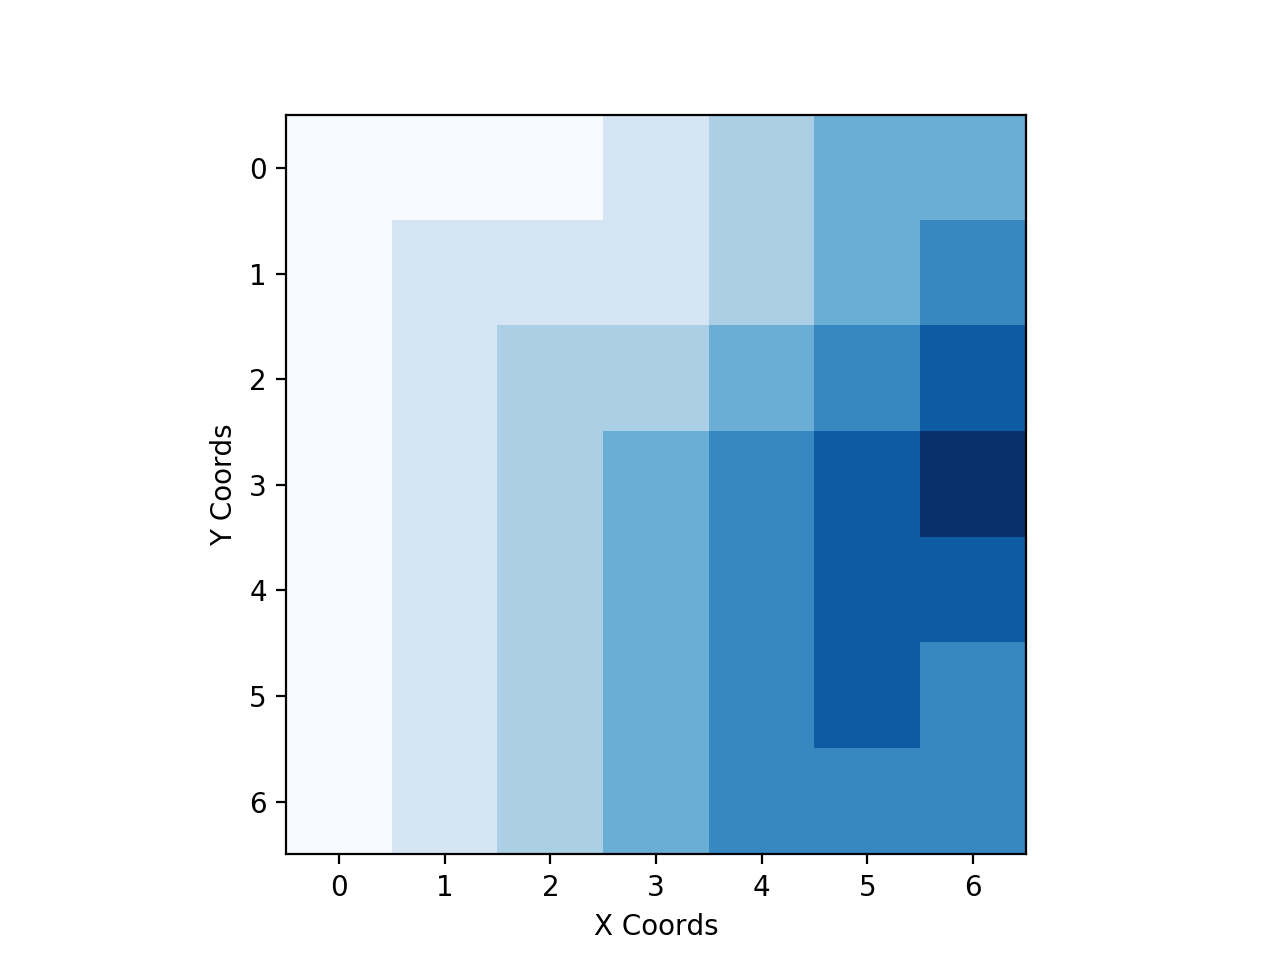
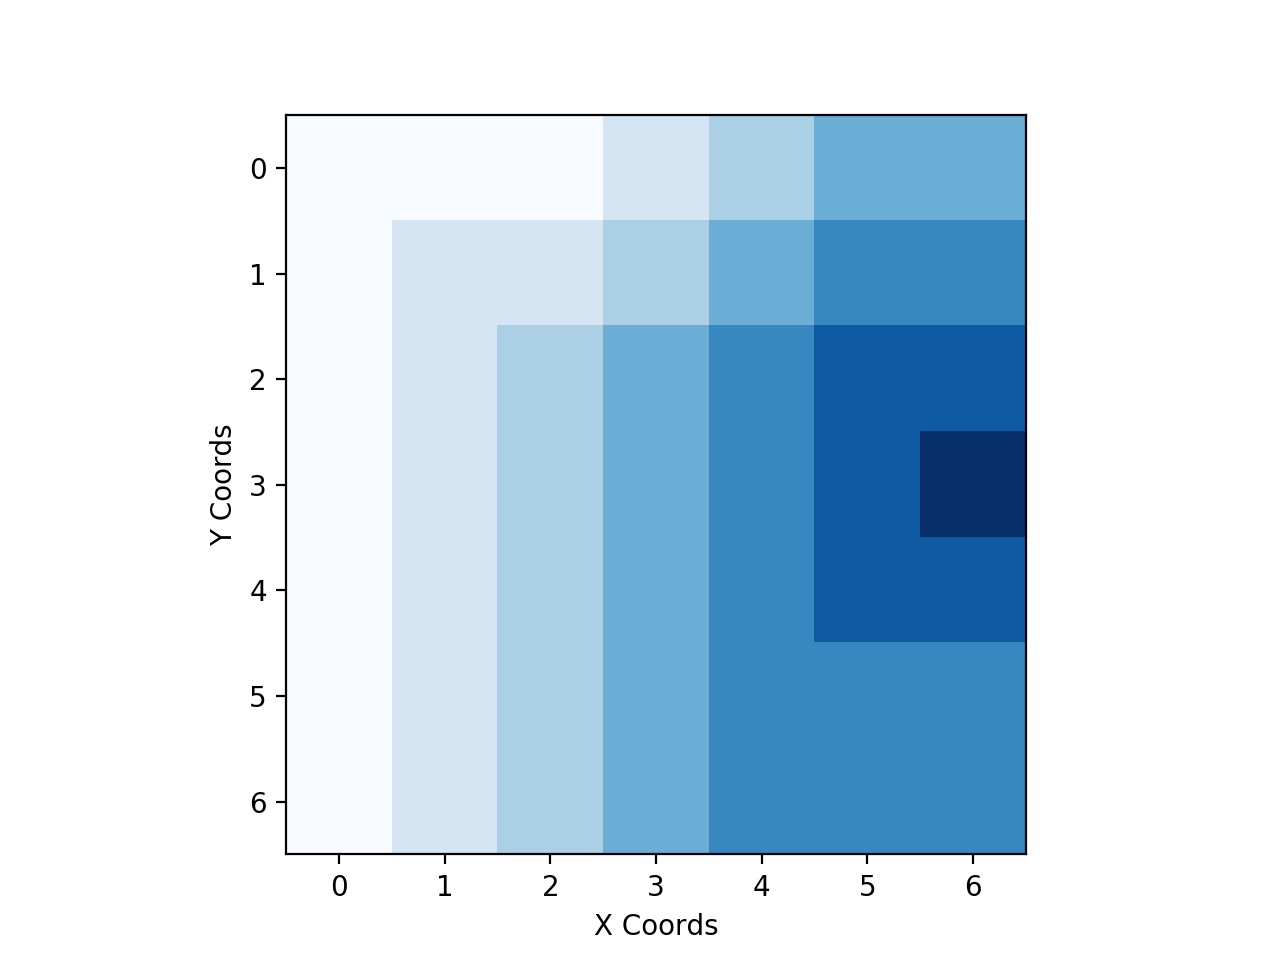
strong winds

Changed region(s): [[0.4688, 0.2188, 0.7188, 0.4688], [0.625, 0.6562, 0.7188, 0.7812]]

diff --git a/valueIteration.py b/valueIteration.py
@@ -8,7 +8,7 @@ global windFactor
 global FINAL_STATE
 
 ########################################## EDIT THESE ##########################
-windFactor = 1 # set to 0, 1, or 2
+windFactor = 2 # set to 0, 1, or 2
 northerlyWindPattern = (0,0,0,0,0,0,0) #describes where wind factor is active 
 southerlyWindPattern = (0,0,0,1,1,1,0) #note wind is given by the direction it is coming from
 easterlyWindPattern  = (0,0,0,0,0,0,0)
@@ -79,16 +79,7 @@ def findNeighbors(board, currPos):
 	if windFactor !=0:
 		if (((northerlyWindPattern[col] == 1) != (southerlyWindPattern[col] == 1)) or
 			((easterlyWindPattern [row] == 1) != (westerlyWindPattern [row] == 1))):
-			windChangesYourStay = True
-
-		if northerlyWindPattern[col] == 1: 
-			row = min(bHeight-1, ow+windFactor)	
-		if southerlyWindPattern[col] == 1:
-			row = max(0, row-windFactor)	
-		if easterlyWindPattern [row] == 1:
-			col = max(0, col-windFactor)
-		if westerlyWindPattern [row] == 1:
-			col = min(bWidth-1, col+windFactor)		
+			windChangesYourStay = True	
 
 	n = [] ## a list of coordinate tuples of eligible neighbors
 	dirs = []
@@ -153,9 +144,29 @@ def findNeighbors(board, currPos):
 		n.append((row+1, col-1))
 		desiredDir = "SW"
 		dirs.append(normalDirs[desiredDir])
+
+	neigh = []
+
+	if(windFactor !=0):
+		for check in n:
+			row2,col2 = check
+
+			if northerlyWindPattern[col2] == 1: 
+				row2 = min(bHeight-1, row2+windFactor)	
+			if southerlyWindPattern[col2] == 1:
+				row2 = max(0, row2-windFactor)	
+			if easterlyWindPattern [row2] == 1:
+				col2 = max(0, col2-windFactor)
+			if westerlyWindPattern [row2] == 1:
+				col2 = min(bWidth-1, col2+windFactor)
+			
+			#print(check,"became",(row2,col2))
+			neigh.append((row2,col2))
+	else:
+		neigh = n	
 	
 	#n.append((x, y)) Dont need to do this, accouned for in findUtility
-	return n, dirs
+	return neigh, dirs
 
 def drawPlot(numBoard):
 	if SHOW_PLOT == True:
@@ -182,10 +193,13 @@ board = [[0.0] * bWidth for i in range(bHeight)]
 ## board[row][col] indexing
 print ("\n\t~"+"BASE ARRAY (BEFORE)~"+"\n",DataFrame(board))
 ## Run value iteration on loop 
-for i in range (0, DELTA):	
-	marked = [[0.0] * bWidth for i in range(bHeight)]
-	currPos = (0, 0) #stored Y, X
-	findUtility(currPos)
+#for i in range (0, DELTA):	
+
+for i in range(0, bHeight):
+	for j in range(0, bWidth):
+		marked = [[0.0] * bWidth for i in range(bHeight)]
+		currPos = (i,j) #stored Y, X
+		findUtility(currPos)
 
 
 print ("\n\t~"+"VALUE FUNCTION( (AFTER)~"+"\n",DataFrame(board).to_csv())

diff --git a/README.md b/README.md
@@ -3,7 +3,7 @@
 ##### Some General Notes:
 * for policies, the actions to be taken are given in cardinal directions N, S, E, W, NE, SE, NW, and SW. A period . means stay. 
 
-### Case 1: Windless
+### Case I: Windless
 
 ##### Value Function:
 
@@ -28,7 +28,7 @@
 | 00 	| E 	| E 	| E 	| SE 	| S  	| S  	| S 	|
 | 01 	| E 	| E 	| E 	| E  	| SE 	| S  	| S 	|
 | 02 	| E 	| E 	| E 	| E  	| E  	| SE 	| S 	|
-| 03 	| E 	| E 	| E 	| E  	| E  	| E  	| + 	|
+| 03 	| E 	| E 	| E 	| E  	| E  	| E  	| . 	|
 | 04 	| E 	| E 	| E 	| E  	| E  	| NE 	| N 	|
 | 05 	| E 	| E 	| E 	| E  	| NE 	| N  	| N 	|
 | 06 	| E 	| E 	| E 	| NE 	| N  	| N  	| N 	|
@@ -40,7 +40,7 @@
 | 00 	| E 	| E 	| E 	| SE 	| S  	| S  	| S 	|
 | 01 	| E 	| E 	| E 	| E  	| SE 	| S  	| S 	|
 | 02 	| E 	| `SE`	| E 	| E  	| E  	| SE 	| S 	|
-| 03 	| E 	| E 	| E 	| E  	| E  	| E  	| + 	|
+| 03 	| E 	| E 	| E 	| E  	| E  	| E  	| . 	|
 | 04 	| E 	| E 	| E 	| E  	| E  	| NE 	| N 	|
 | 05 	| E 	| E 	| E 	| E  	| NE 	| N  	| N 	|
 | 06 	| E 	| E 	| E 	| NE 	| N  	| N  	| N 	|
@@ -49,35 +49,65 @@ Notice the change in X1,Y2 from E to SE. Many permutations such as this can be c
 
 Because paths are derived at each cell by pointing towards the highest neighbor (for example, if the neighbors of a at a corner are '-5' are '-4', '-5', and '-5' then the '-4' will be pointed to); so if there is more than one equally highest neighbor then choosing either to point to is valid for an optimal solution.
 
-### Case 2: Weak Wind
+### Case II: Weak Wind
 
 ##### Value Function:
 
-|   	| 00    | 01    | 02    | 03    | 04    | 05    | 06    |
+|   	| 0    	| 1    	| 2    	| 3    	| 4    	| 5    	| 6    	|
 |---	|------	|------	|------	|------	|------	|------	|------	|
-| 00 	| -6.0 	| -6.0 	| -6.0 	| -5.0 	| -4.0 	| -3.0 	| -3.0 	|
-| 01 	| -6.0 	| -5.0 	| -5.0 	| -5.0 	| -4.0 	| -3.0 	| -2.0 	|
-| 02 	| -6.0 	| -5.0 	| -4.0 	| -4.0 	| -3.0 	| -2.0 	| -1.0 	|
-| 03 	| -6.0 	| -5.0 	| -4.0 	| -3.0 	| -2.0 	| -1.0 	| 0.0  	|
-| 04 	| -6.0 	| -5.0 	| -4.0 	| -3.0 	| -2.0 	| -1.0 	| -1.0 	|
-| 05 	| -6.0 	| -5.0 	| -4.0 	| -3.0 	| -2.0 	| -1.0 	| -2.0 	|
-| 06 	| -6.0 	| -5.0 	| -4.0 	| -3.0 	| -2.0 	| -2.0 	| -2.0 	|
+| 0 	| -6.0 	| -6.0 	| -6.0 	| -5.0 	| -4.0 	| -3.0 	| -3.0 	|
+| 1 	| -6.0 	| -5.0 	| -5.0 	| -4.0 	| -3.0 	| -2.0 	| -2.0 	|
+| 2 	| -6.0 	| -5.0 	| -4.0 	| -3.0 	| -2.0 	| -1.0 	| -1.0 	|
+| 3 	| -6.0 	| -5.0 	| -4.0 	| -3.0 	| -2.0 	| -1.0 	| 0.0  	|
+| 4 	| -6.0 	| -5.0 	| -4.0 	| -3.0 	| -2.0 	| -1.0 	| -1.0 	|
+| 5 	| -6.0 	| -5.0 	| -4.0 	| -3.0 	| -2.0 	| -2.0 	| -2.0 	|
+| 6 	| -6.0 	| -5.0 	| -4.0 	| -3.0 	| -2.0 	| -2.0 	| -2.0 	|
 
 ##### Gradiant Visualization of the Value Function:
 
 ![alt text](Figure_2.png)
 
-##### Policy for Case 2:
+##### An Optimal Policy for Case 2:
 
-|   	| 00    | 01    | 02    | 03    | 04    | 05    | 06    |
+|   	| 0    	| 1    	| 2    	| 3    	| 4    	| 5    	| 6    	|
 |---	|------	|------	|------	|------	|------	|------	|------	|
-| 00 	| SE	| SE 	| SE 	| SE 	| SE	| SE 	| S 	|
-| 01 	| E 	| SE 	| SE 	| SE 	| SE 	| SE 	| S 	|
-| 02 	| E 	| E 	| SE 	| SE 	| SE 	| SE 	| S 	|
-| 03 	| E 	| E 	| E 	| SE 	| SE	| E 	| 0.0  	|
-| 04 	| E 	| E 	| E 	| SE 	| E 	| NE 	| N 	|
-| 05 	| E 	| E 	| E 	| SE 	| E 	| NE 	| N 	|
-| 06 	| E 	| E 	| E 	| SE 	| NE	| . 	| N 	|
+| 0 	| SE	| SE 	| SE 	| SE 	| SE 	| SE 	| S 	|
+| 1 	| E 	| SE 	| SE 	| SE 	| SE 	| SE 	| S 	|
+| 2 	| E 	| E 	| E 	| SE 	| SE 	| SE 	| S 	|
+| 3 	| E 	| E 	| E 	| SE 	| SE 	| E 	| .  	|
+| 4 	| E 	| E 	| E 	| E 	| SE 	| NE 	| N 	|
+| 5 	| E 	| E 	| E 	| E 	| E 	| NE 	| N 	|
+| 6 	| E 	| E 	| E 	| E 	| NE 	| . 	| N 	|
+
+### Case III: Strong Wind
+
+##### Value Function:
+
+|   	| 0    	| 1    	| 2    	| 3    	| 4    	| 5    	| 6    	|
+|---	|------	|------	|------	|------	|------	|------	|------	|
+| 0 	| -8.0 	| -7.0 	| -6.0 	| -5.0 	| -4.0 	| -3.0 	| -3.0 	|
+| 1 	| -8.0 	| -7.0 	| -6.0 	| -5.0 	| -4.0 	| -2.0 	| -2.0 	|
+| 2 	| -7.0 	| -7.0 	| -6.0 	| -5.0 	| -3.0 	| -1.0 	| -1.0 	|
+| 3 	| -6.0 	| -6.0 	| -6.0 	| -4.0 	| -2.0 	| -1.0 	| 0.0  	|
+| 4 	| -6.0 	| -5.0 	| -5.0 	| -3.0 	| -2.0 	| -1.0 	| -1.0 	|
+| 5 	| -6.0 	| -5.0 	| -4.0 	| -3.0 	| -2.0 	| -2.0 	| -2.0 	|
+| 6 	| -6.0 	| -5.0 	| -4.0 	| -3.0 	| -2.0 	| -2.0 	| -2.0 	|
+
+##### Gradiant Visualization of the Value Function:
+
+![alt text](Figure_3.png)
+
+##### An Optimal Policy for Case 3:
+
+|   	| 0    	| 1    	| 2    	| 3    	| 4    	| 5    	| 6    	|
+|---	|------	|------	|------	|------	|------	|------	|------	|
+| 0 	| SE	| SE 	| S 	| SE 	| SE 	| SE 	| S 	|
+| 1 	| SE 	| SE 	| S 	| SE 	| SE 	| SE	| S 	|
+| 2 	| SE 	| SE 	| S 	| SE 	| SE 	| SE 	| S 	|
+| 3 	| E 	| SE 	| SE 	| SE 	| SE 	| E 	| .  	|
+| 4 	| E 	| E 	| E 	| SE 	| SE 	| NE	| N 	|
+| 5 	| E 	| E 	| E 	| SE 	| SE 	| NE 	| N 	|
+| 6 	| E 	| E 	| E 	| E 	| E 	| . 	| N 	|
 
 ### Changing the Wind Factor
 
